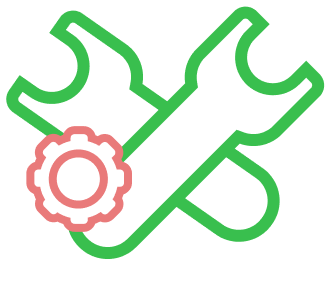
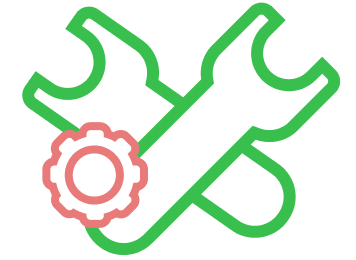
new commit for login

diff --git a/css/style.css b/css/style.css
@@ -61,9 +61,12 @@ html, body {
 	margin-bottom: 20px;
 	color: #000;
 }
+.intro-pics{
+	width: 60%;
+}
 .intro-pics img {
 	width: 100%;
-	margin-top: 120px;
+	margin-top: 80px;
 }
 .bottom-text-area {
 	position: absolute;
@@ -192,10 +195,10 @@ html, body {
 	display: none;
 }
 .logo-pics {
-	width: 15%;
+	width: 12%;
 	margin-left: auto;
 	margin-right: auto;
-	margin-top: 20%;
+	margin-top: 10%;
 }
 .logo-pics img {
 	width: 100%;
@@ -213,19 +216,27 @@ h4 {
 }
 .login-options {
 	display: flex;
-	width: 70%;
+	width: 47%;
 	margin-left: auto;
 	margin-right: auto;
 	margin-bottom: 20px;
 }
-.client-btn,
 .helper-btn {
 	padding: 8px 12px;
-	width: 60px;
+	width: 50%;
 	color: rgba(0, 0, 0, 0.7);
-	border-radius: 40px;
+	border-radius: 15px;
 	text-align: center;
 	font-family: 'Roboto';
+}
+.client-btn {
+	padding: 8px 12px;
+	width: 60%;
+	color: rgba(0, 0, 0, 0.7);
+	border-radius: 15px;
+	text-align: center;
+	font-family: 'Roboto';
+	margin-left: auto;
 }
 a:link {
   text-decoration: none;
@@ -243,13 +254,16 @@ a:link {
 	display: flex;
 	width: 100%;
 	height: 100%;
-
 }
 .login-project{
 	width: 100%;
 	margin-left: auto;
 	margin-right: auto;
-
+}
+.login-info {
+	width: 90%;
+	margin-left: auto;
+	margin-right: auto;
 }
 .web-log {
 	width: 100%;
@@ -326,7 +340,7 @@ span.psw {
   color: rgba(0, 0, 0, 0.7);
 }
 .psw a {
-	color: rgba(0, 0, 0, 0.7);
+	color: #3997BF;
 }
 .social-icon-area {
 		width: 80%;
@@ -342,6 +356,7 @@ span.psw {
 
 }
 	.continue-text p{
+	text-align: center;
 	margin-left: auto;
 	margin-right: auto;
 		font-family: 'Roboto';
@@ -353,8 +368,14 @@ span.psw {
 	margin-left: auto;
 	margin-right: auto;
 }
+.all-social-btn {
+	width: 60%;
+	margin-left: auto;
+	margin-right: auto;
+	margin-top: 20px;
+}
 	.social-btn {
-		width: 80%;
+		width: 100%;
 	}
 .social-btn img {
 	width: 100%;
@@ -656,13 +677,15 @@ span.psw {
 		margin-top: 40px;
 }
 .dash-body-1 {
-	max-width: 60%;
+	width: 80%;
 	margin-left: auto;
 	margin-right: auto;
+
 }
 .dash-body-1 img {
-	width: 100%;
+	width: 80%;
 	height: 60px;
+	padding: 5px;
 	object-fit: contain;
 }
 .dash-body-1 p{
@@ -681,13 +704,14 @@ span.psw {
 	font-family: Ubuntu sans;
 }
 .dash-body-2 {
-	max-width: 55%;
+	width: 80%;
 	margin-left: auto;
 	margin-right: auto;
 }
 .dash-body-2 img {
-	width: 100%;
+	width: 80%;
 	height: 60px;
+	padding: 5px;
 	object-fit: contain;
 }
 .dashboard-body-2 {

diff --git a/index.html b/index.html
@@ -69,7 +69,7 @@
 		 </div></div>
 	 <div class="grid-item">
 		 <div class="msg-pic">
-	   <a href="intro-2.html"><img src="img/index/messages.png" alt="Project 2" /></a>
+	   <a href="user-profile.html"><img src="img/index/messages.png" alt="Project 2" /></a>
 		 </div>
 			   </div>
 		   </div>
@@ -156,11 +156,11 @@
 		   <div class="grid-container">
 		   <div class="grid-item">
 		  <div class="dash-body-1">
-			  <a href="intro-2.html"><div><img src="img/index/dailyhelp-services.png" alt="Project 2" /></div><p>Our Services</p></a></div>
+			  <a href="dashboard.html"><div><img src="img/index/dailyhelp-services.png" alt="Project 2" /></div><p>Our Services</p></a></div>
 			   </div>
 	<div class="grid-item">
 		  <div class="dash-body-1">
-			  <a href="intro-2.html"><div><img src="img/index/settings.png" alt="Project 2" /></div><p>Settings</p></a></div>
+			  <a href="settings.html"><div><img src="img/index/settings.png" alt="Project 2" /></div><p>Settings</p></a></div>
 			   </div>
 	 <div class="grid-item">
 		  <div class="dash-body-1">
@@ -170,15 +170,15 @@
 			 <div class="grid-container">
 		   <div class="grid-item">
 		  <div class="dash-body-2">
-			  <a href="intro-2.html"><div><img src="img/index/contact.png" alt="Project 2" /></div><p>Contact Us</p></a></div>
+			  <a href="contact-us.html"><div><img src="img/index/contact.png" alt="Project 2" /></div><p>Contact Us</p></a></div>
 			   </div>
 	<div class="grid-item">
 		  <div class="dash-body-2">
-			  <a href="intro-2.html"><div><img src="img/index/payments.png" alt="Project 2" /></div><p>Manage Payments</p></a></div>
+			  <a href="manage-payments.html"><div><img src="img/index/payments.png" alt="Project 2" /></div><p>Manage Payments</p></a></div>
 			   </div>
 	 <div class="grid-item">
 		  <div class="dash-body-2">
-			  <a href="intro-2.html"><div><img src="img/index/about.png" alt="Project 2" /></div><p>About Us</p></a></div>
+			  <a href="about-you.html"><div><img src="img/index/about.png" alt="Project 2" /></div><p>About Us</p></a></div>
 			   </div>
 		   </div>
 		   </div>

diff --git a/login.html b/login.html
@@ -39,6 +39,7 @@ html, body {
 			<div class="login-options">
 			<a href="helper.html"><div class="helper-btn">Helper</div></a>
 				<a href="client.html"><div class="client-btn">Client</div></a></div>
+			<div class="login-info">
 			<form>
 
   <div class="container">
@@ -57,13 +58,16 @@ html, body {
     </label>
 	   <span class="psw">Forgot <a href="#">password?</a></span>
   </div>
-
+				</form>
+			</div>
 				<div class="social-icon-area">
 					<div class="continue-text">
 				<p>
 				continue with
 				</p>
 				</div>
+					
+					<div class="all-social-btn">
 				<div class="grid-container">
 					
   <div class="grid-item"> 
@@ -81,7 +85,7 @@ html, body {
 	
   
 					</div>  
-
+					</div>
 </div>
 				
 				
@@ -90,7 +94,7 @@ html, body {
 					
 		
    
-</form>
+
 			
 			
 		

diff --git a/helpers-search-result.html b/helpers-search-result.html
@@ -54,7 +54,7 @@
 	   <div class="search-top-nav">
 	<div class="nav-content">
 		  <div class="back-arrow-pic">
-	   <a href="intro-2.html"><img src="img/find-helper/back-arrow.png" alt="Project 2" /><h5>Home</h5></a></div>
+	   <a href="index.html"><img src="img/find-helper/back-arrow.png" alt="Project 2" /><h5>Home</h5></a></div>
 	 
 
 		 <div class="filter-pic">
@@ -87,7 +87,7 @@
 				  </div>
 			
 		<div class="result-tabs">
-		  
+		  <a href="helper-profile.html">
 			  <div class="search-result-pics">
 			 <img src="img/helpers-pics/cleaner-pic4.jpeg" alt="Project 2" /> 
 				  </div>
@@ -134,6 +134,7 @@
 				</div>
 		</div>
 			</div>
+			  </a>
 		</div>
 			
 			<div class="result-tabs">
